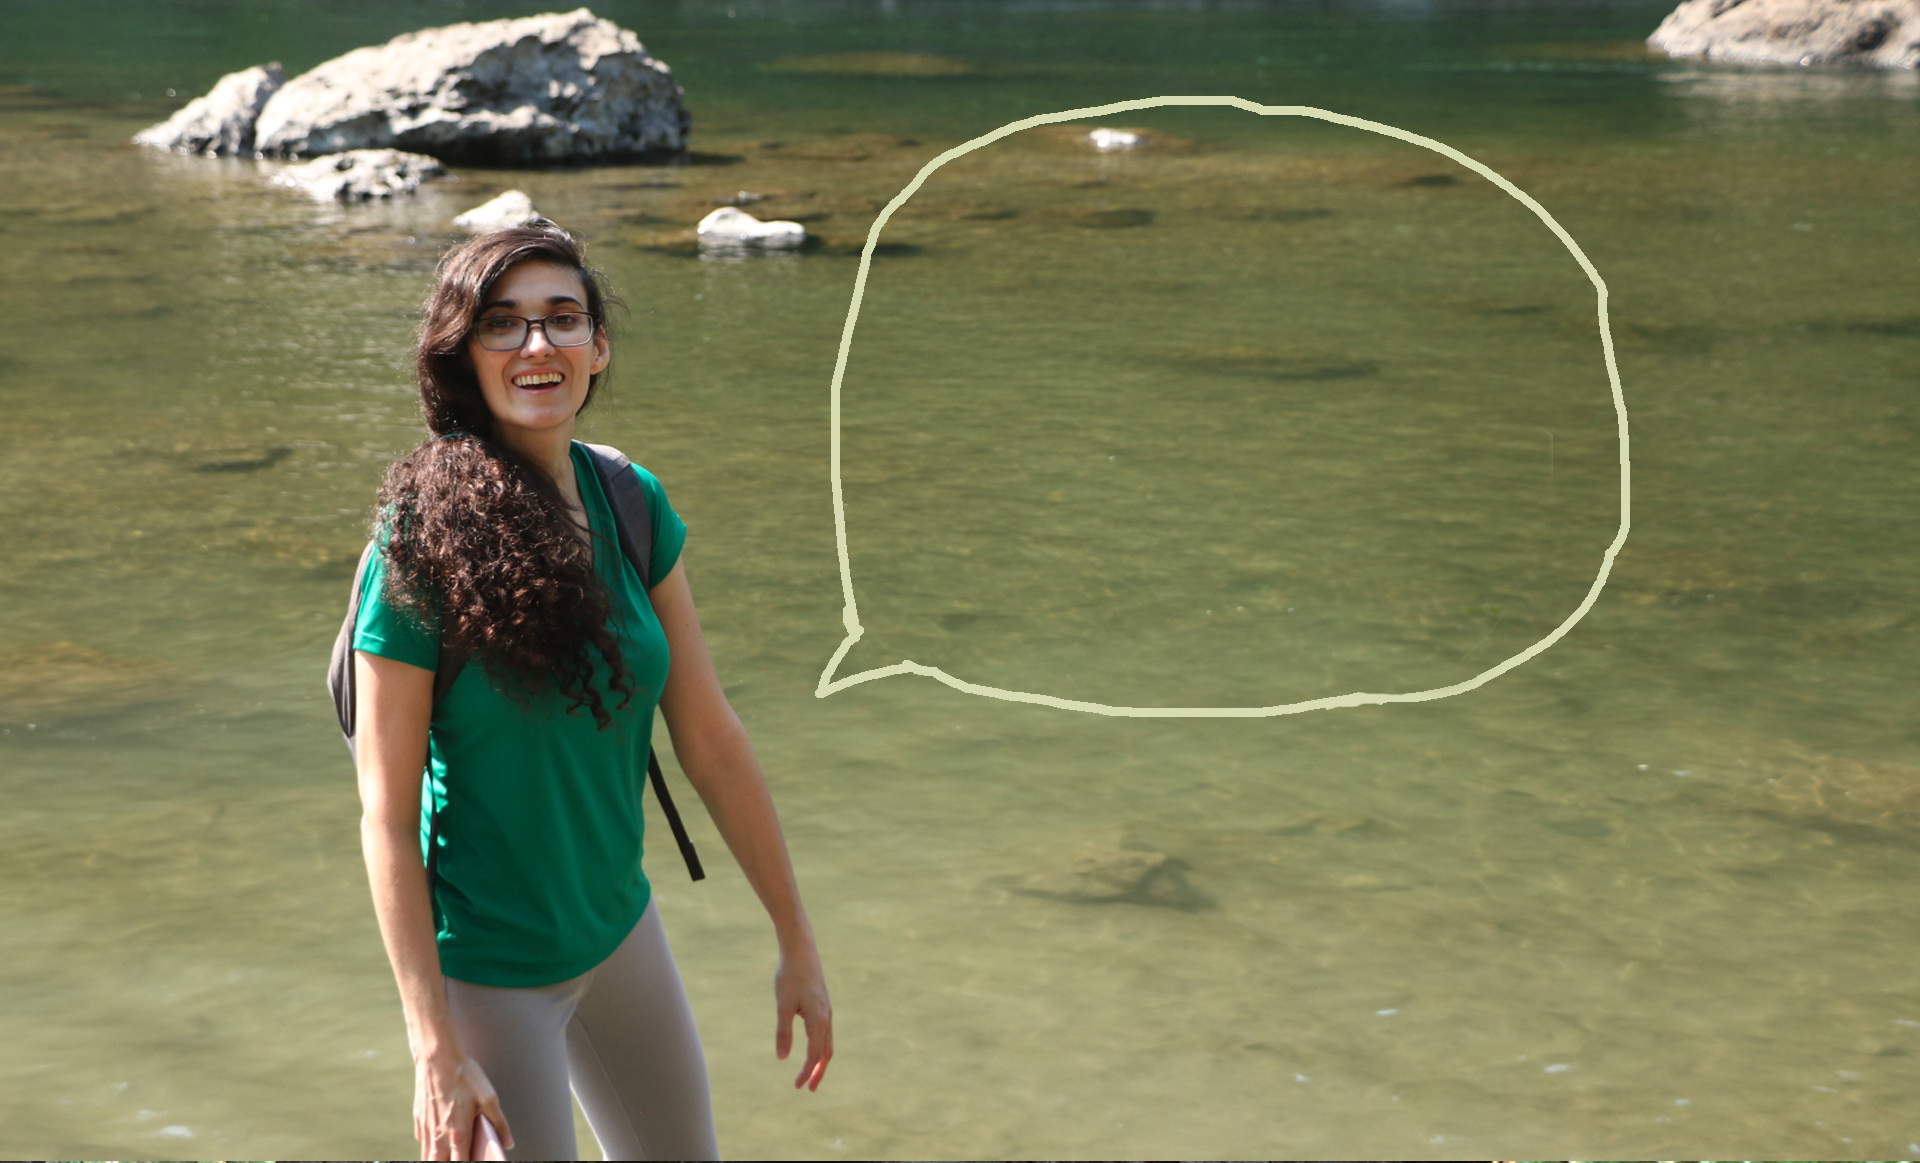
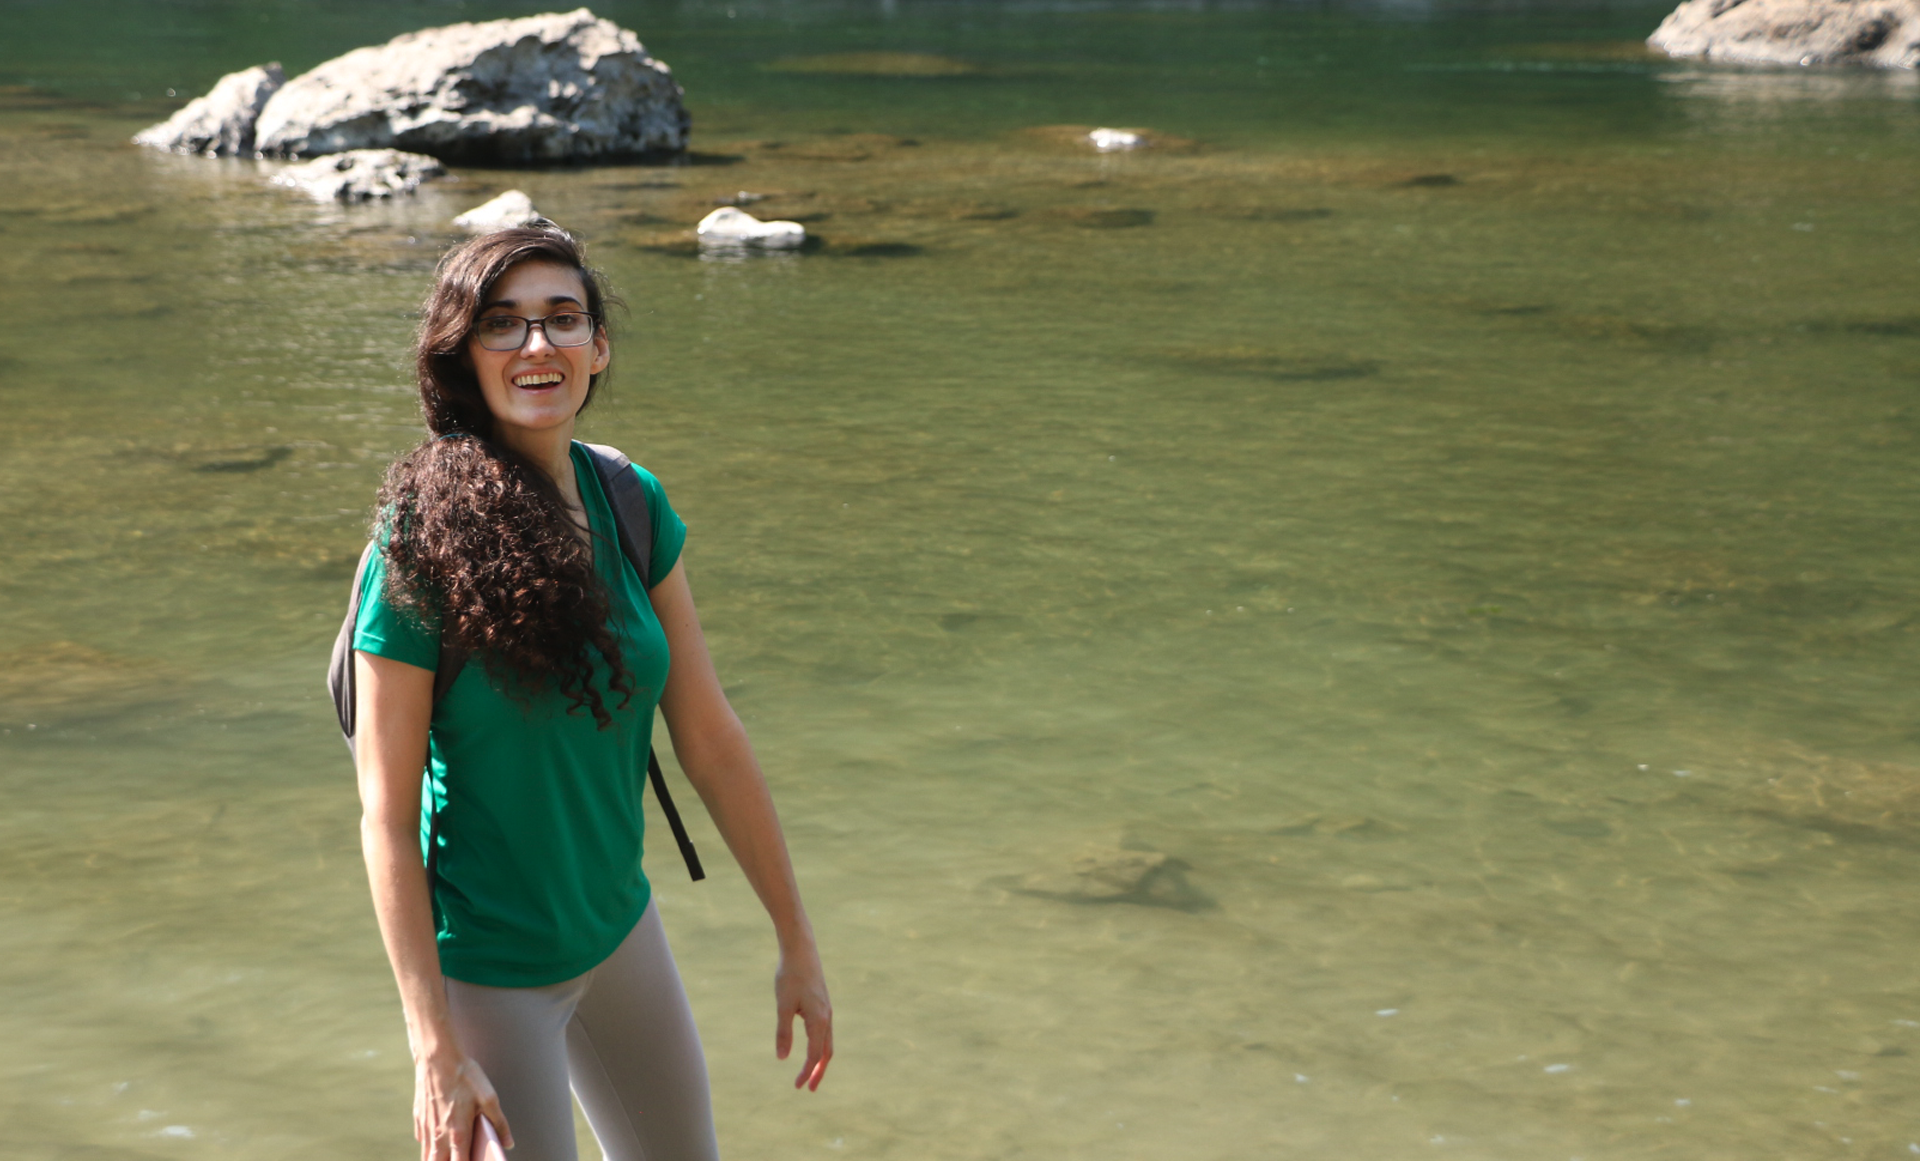
deletes extra images

diff --git a/style.css b/style.css
@@ -13,7 +13,7 @@ footer {
 }
 
 #hero {
-  background-image: url("./images/hero2.png");
+  background-image: url("./images/hero.png");
   background-repeat: no-repeat;
   background-size: 100% auto;
   min-height: 850px;
